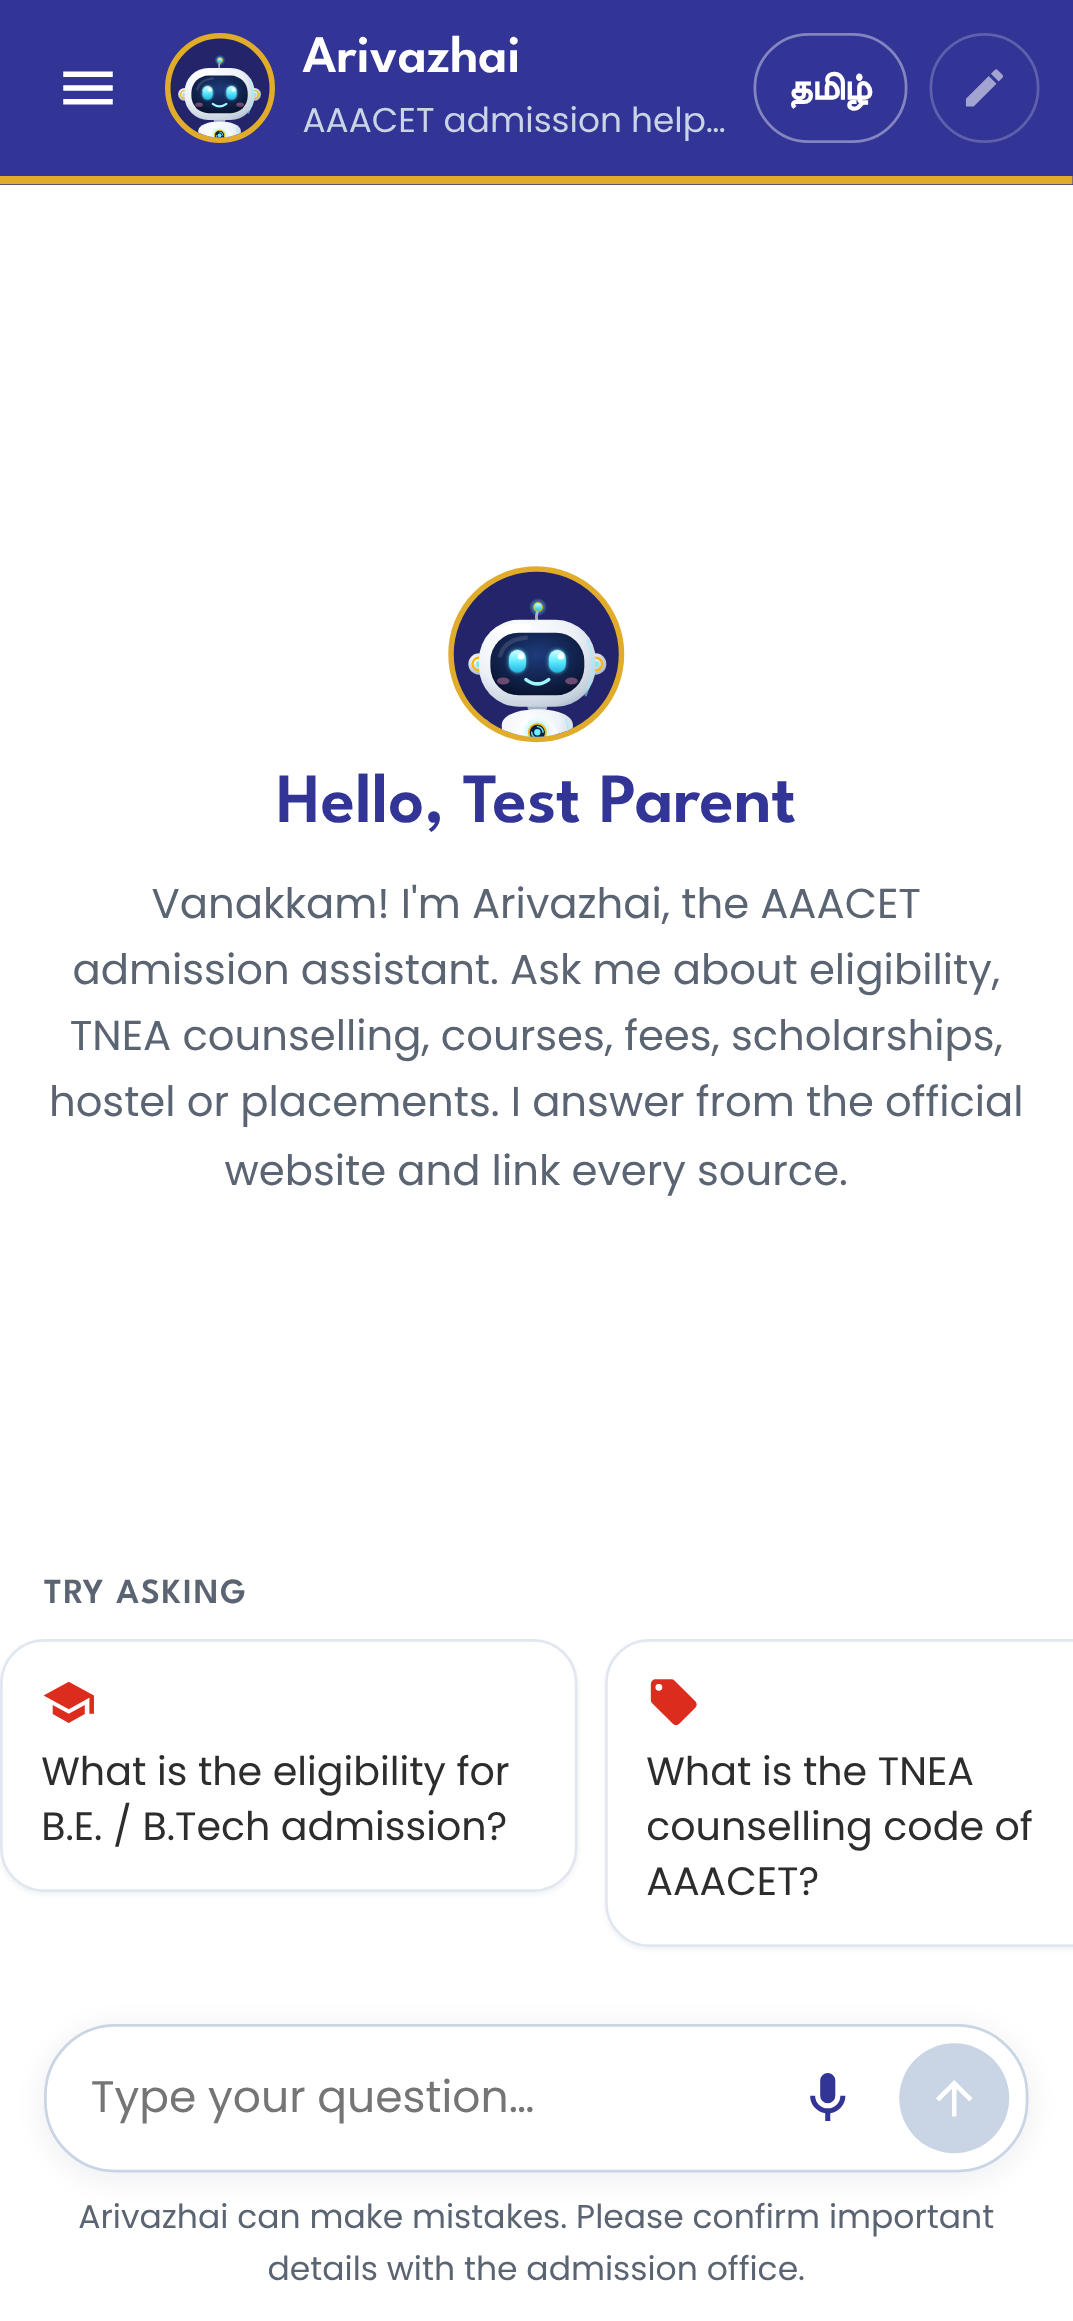
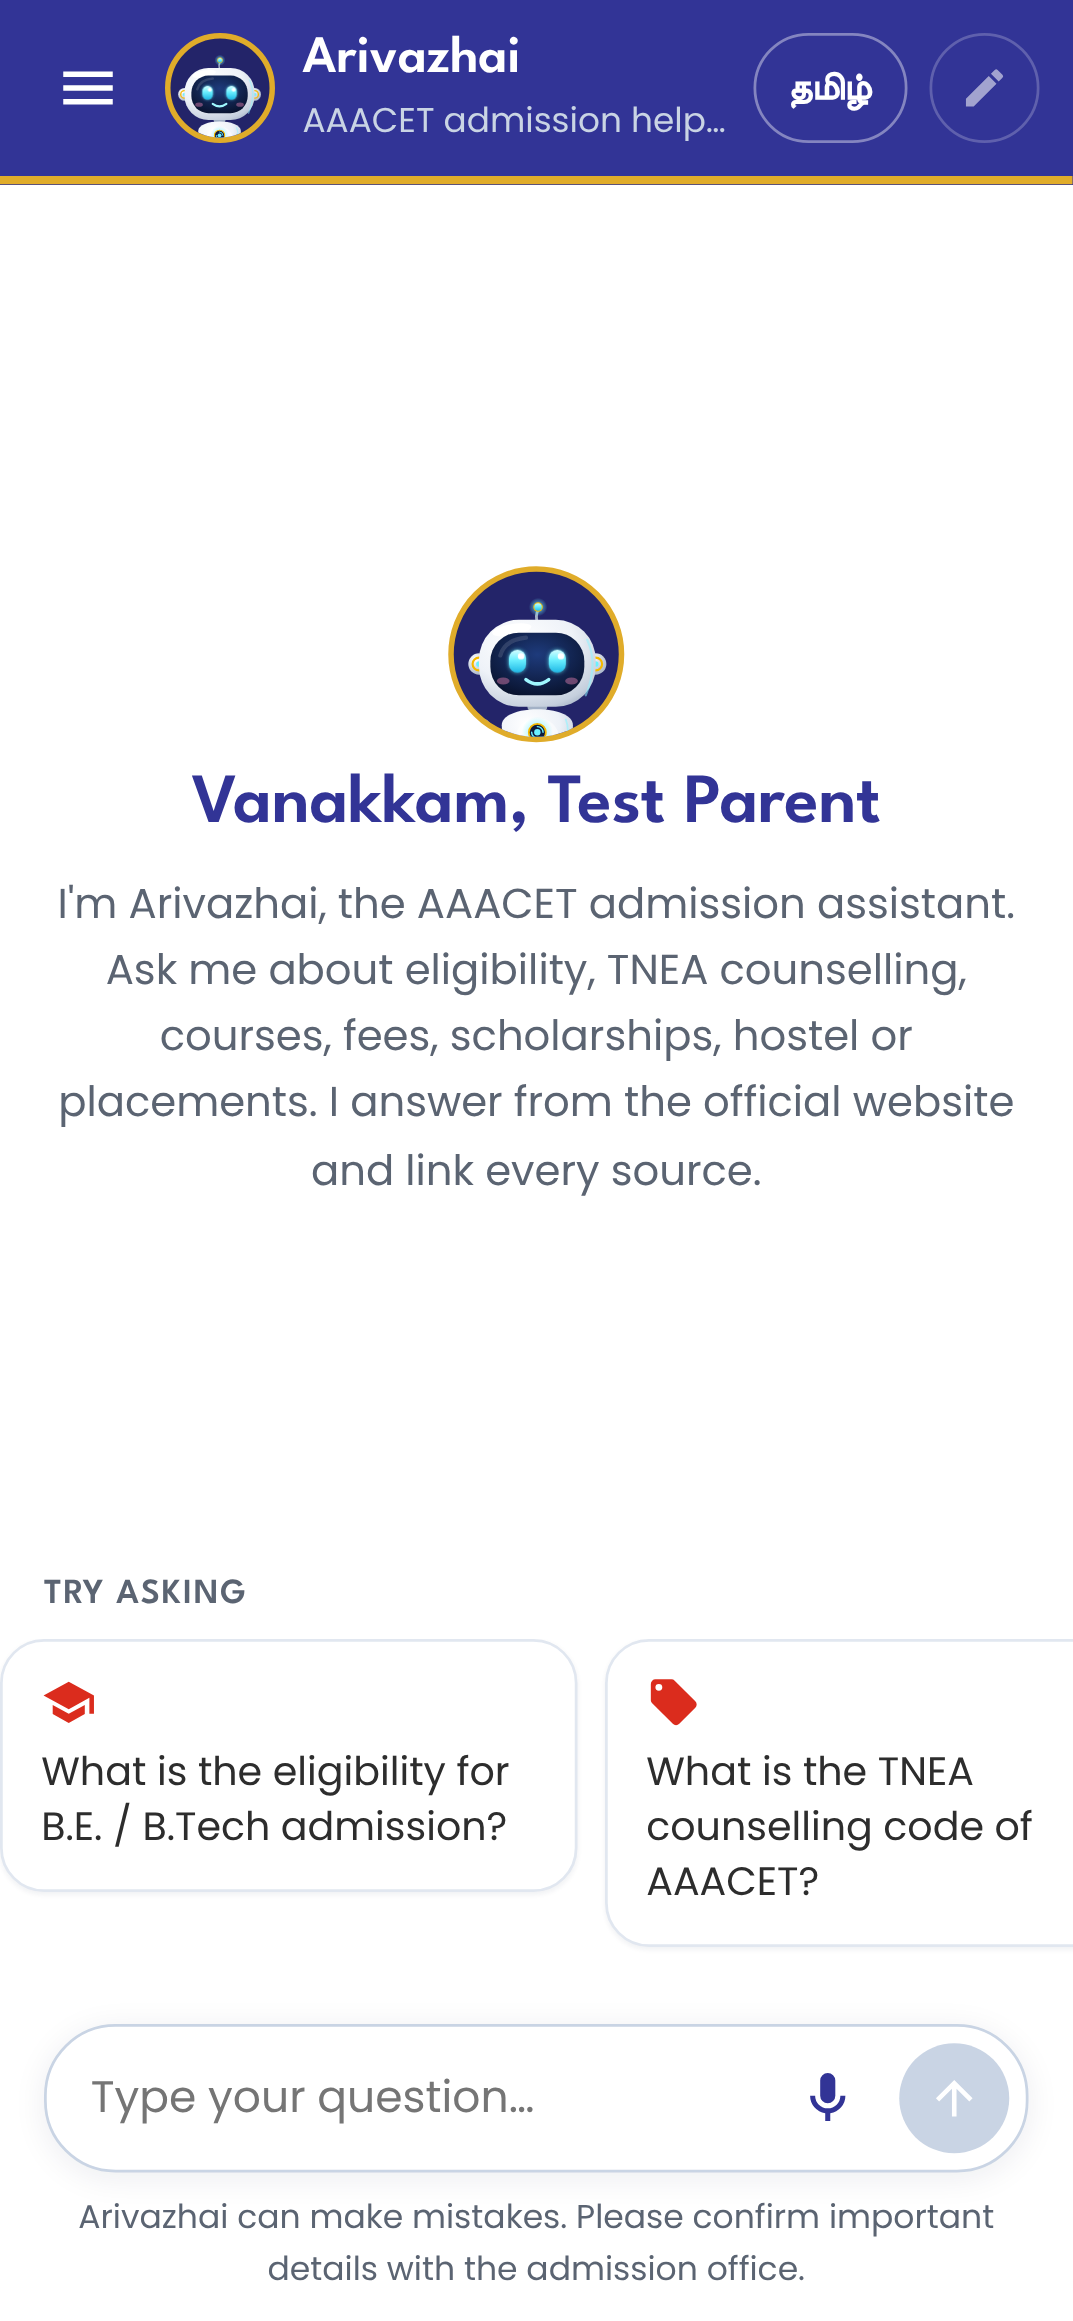
Greeting: "Vanakkam, <name>", then "I'm Arivazhai..." (Tamil: வணக்கம், <name> / நான் Arivazhai...)
Claude-Session: https://claude.ai/code/session_01SJVhKiZ6TShYuB2bjtaZGm

Changed region(s): [[0.0308, 0.3102, 0.9534, 0.5274]]

diff --git a/frontend/js/i18n.js b/frontend/js/i18n.js
@@ -19,7 +19,7 @@
       subtitle: "AAACET admission help desk · answers from the official website",
       newChat: "New chat",
       welcome:
-        "Vanakkam! I'm Arivazhai, the AAACET admission assistant. Ask me about eligibility, TNEA counselling, courses, fees, " +
+        "I'm Arivazhai, the AAACET admission assistant. Ask me about eligibility, TNEA counselling, courses, fees, " +
         "scholarships, hostel or placements. I answer from the official website and link every source.",
       tryAsking: "Try asking",
       preset1: "What is the eligibility for B.E. / B.Tech admission?",
@@ -83,7 +83,7 @@
       newChatText: "This conversation will be deleted from this device. It cannot be brought back.",
       newChatConfirm: "Delete and start new",
       newChatCancel: "Keep this chat",
-      hello: "Hello",
+      hello: "Vanakkam",
       menu: "Menu",
       closeMenu: "Close menu",
       collegeSite: "College website",
@@ -142,7 +142,7 @@
       subtitle: "AAACET சேர்க்கை உதவி மையம் · அதிகாரப்பூர்வ இணையதளத்திலிருந்து பதில்கள்",
       newChat: "புதிய உரையாடல்",
       welcome:
-        "வணக்கம்! நான் Arivazhai, AAACET சேர்க்கை உதவியாளர். தகுதி, TNEA கலந்தாய்வு, படிப்புகள், கட்டணம், உதவித்தொகை, " +
+        "நான் Arivazhai, AAACET சேர்க்கை உதவியாளர். தகுதி, TNEA கலந்தாய்வு, படிப்புகள், கட்டணம், உதவித்தொகை, " +
         "விடுதி அல்லது வேலைவாய்ப்பு பற்றி என்னிடம் கேளுங்கள். அதிகாரப்பூர்வ இணையதளத்திலிருந்து பதில் தருவேன், ஒவ்வொரு " +
         "தகவலுக்கும் இணைப்பும் தருவேன்.",
       tryAsking: "இவற்றைக் கேட்டுப் பாருங்கள்",

diff --git a/frontend/index.html b/frontend/index.html
@@ -233,8 +233,8 @@
         <div class="welcome flex flex-col gap-5 max-phone:min-h-full" id="welcome-suggestions">
           <div class="flex flex-col items-center gap-2 pt-4 text-center max-phone:flex-1 max-phone:justify-center max-phone:pt-2">
             <span class="profile grid size-16 place-items-center overflow-hidden rounded-full border-2 border-gold bg-navy-dark" aria-hidden="true" data-robot="head"></span>
-            <h3 class="welcome__hello m-0 font-heading text-[1.6rem] text-navy"><span data-i18n="hello">Hello</span><span class="welcome__name"></span></h3>
-            <p class="m-0 max-w-[560px] text-[0.95rem] text-muted" data-i18n="welcome">Vanakkam! I'm Arivazhai, the AAACET admission assistant. Ask me about eligibility, TNEA counselling, courses, fees,
+            <h3 class="welcome__hello m-0 font-heading text-[1.6rem] text-navy"><span data-i18n="hello">Vanakkam</span><span class="welcome__name"></span></h3>
+            <p class="m-0 max-w-[560px] text-[0.95rem] text-muted" data-i18n="welcome">I'm Arivazhai, the AAACET admission assistant. Ask me about eligibility, TNEA counselling, courses, fees,
               scholarships, hostel or placements. I answer from the official website and link every source.</p>
           </div>
           <div class="suggestions">

diff --git a/frontend/e2e/assistant.spec.js b/frontend/e2e/assistant.spec.js
@@ -35,8 +35,8 @@ test("welcome screen", async ({ page }, info) => {
   if (info.project.name === "mobile") await expect(page.getByRole("heading", { level: 1, name: "Arivazhai" })).toBeAttached();
   else await expect(page.getByRole("heading", { level: 1, name: "Arivazhai" })).toBeVisible();
   await expect(page.getByRole("heading", { level: 2, name: "Arivazhai", exact: true })).toBeVisible();
-  await expect(page.getByRole("heading", { name: "Hello, Test Parent" })).toBeVisible();
-  await expect(page.getByText(/Vanakkam! I'm Arivazhai, the AAACET admission assistant/)).toBeVisible();
+  await expect(page.getByRole("heading", { name: "Vanakkam, Test Parent" })).toBeVisible();
+  await expect(page.getByText(/^I'm Arivazhai, the AAACET admission assistant/)).toBeVisible();
   await expect(page.getByRole("button", { name: "How do I apply for admission online?" })).toBeVisible();
   await expectNoHorizontalScroll(page);
   await momentGone(page);

diff --git a/frontend/tests/chat.test.js b/frontend/tests/chat.test.js
@@ -17,7 +17,7 @@ const chatCalls = (fetchMock) => fetchMock.mock.calls.filter(([url]) => String(u
 describe("the chat", () => {
   it("welcomes with the parents' admission questions", () => {
     loadPage();
-    expect($(".chat__log").textContent).toContain("Vanakkam! I'm Arivazhai, the AAACET admission assistant");
+    expect($(".chat__log").textContent).toContain("I'm Arivazhai, the AAACET admission assistant");
     expect($$("#welcome-suggestions .chip").map((b) => b.textContent)).toContain("How do I apply for admission online?");
     expect($(".chat-input__send").disabled).toBe(true);
     expect($(".chat__new").disabled).toBe(true);

diff --git a/frontend/tests/app.test.js b/frontend/tests/app.test.js
@@ -26,7 +26,7 @@ describe("the chat app", () => {
   it("greets the visitor by name, with question cards", () => {
     signedIn("Meena");
     loadPage();
-    expect($(".welcome__hello").textContent).toBe("Hello, Meena");
+    expect($(".welcome__hello").textContent).toBe("Vanakkam, Meena");
     expect($$cards()).toHaveLength(8);
     expect($$cards()[0].querySelector("svg")).not.toBeNull(); // each card has an icon
     expect($$cards()[0].textContent).toBe("What is the eligibility for B.E. / B.Tech admission?");

diff --git a/frontend/js/chat.js b/frontend/js/chat.js
@@ -1030,7 +1030,7 @@
       const show = (user) => {
         section.classList.toggle("is-signed-out", !user);
         if (name) name.textContent = user ? user.name : "";
-        if (hello) hello.textContent = user && user.name ? ", " + user.name : ""; // "Hello, Meena"
+        if (hello) hello.textContent = user && user.name ? ", " + user.name : ""; // "Vanakkam, Meena"
       };
       if (!people) {
         show({ name: "" }); // a page without sign-in (tests, or LOGIN_REQUIRED switched off)
